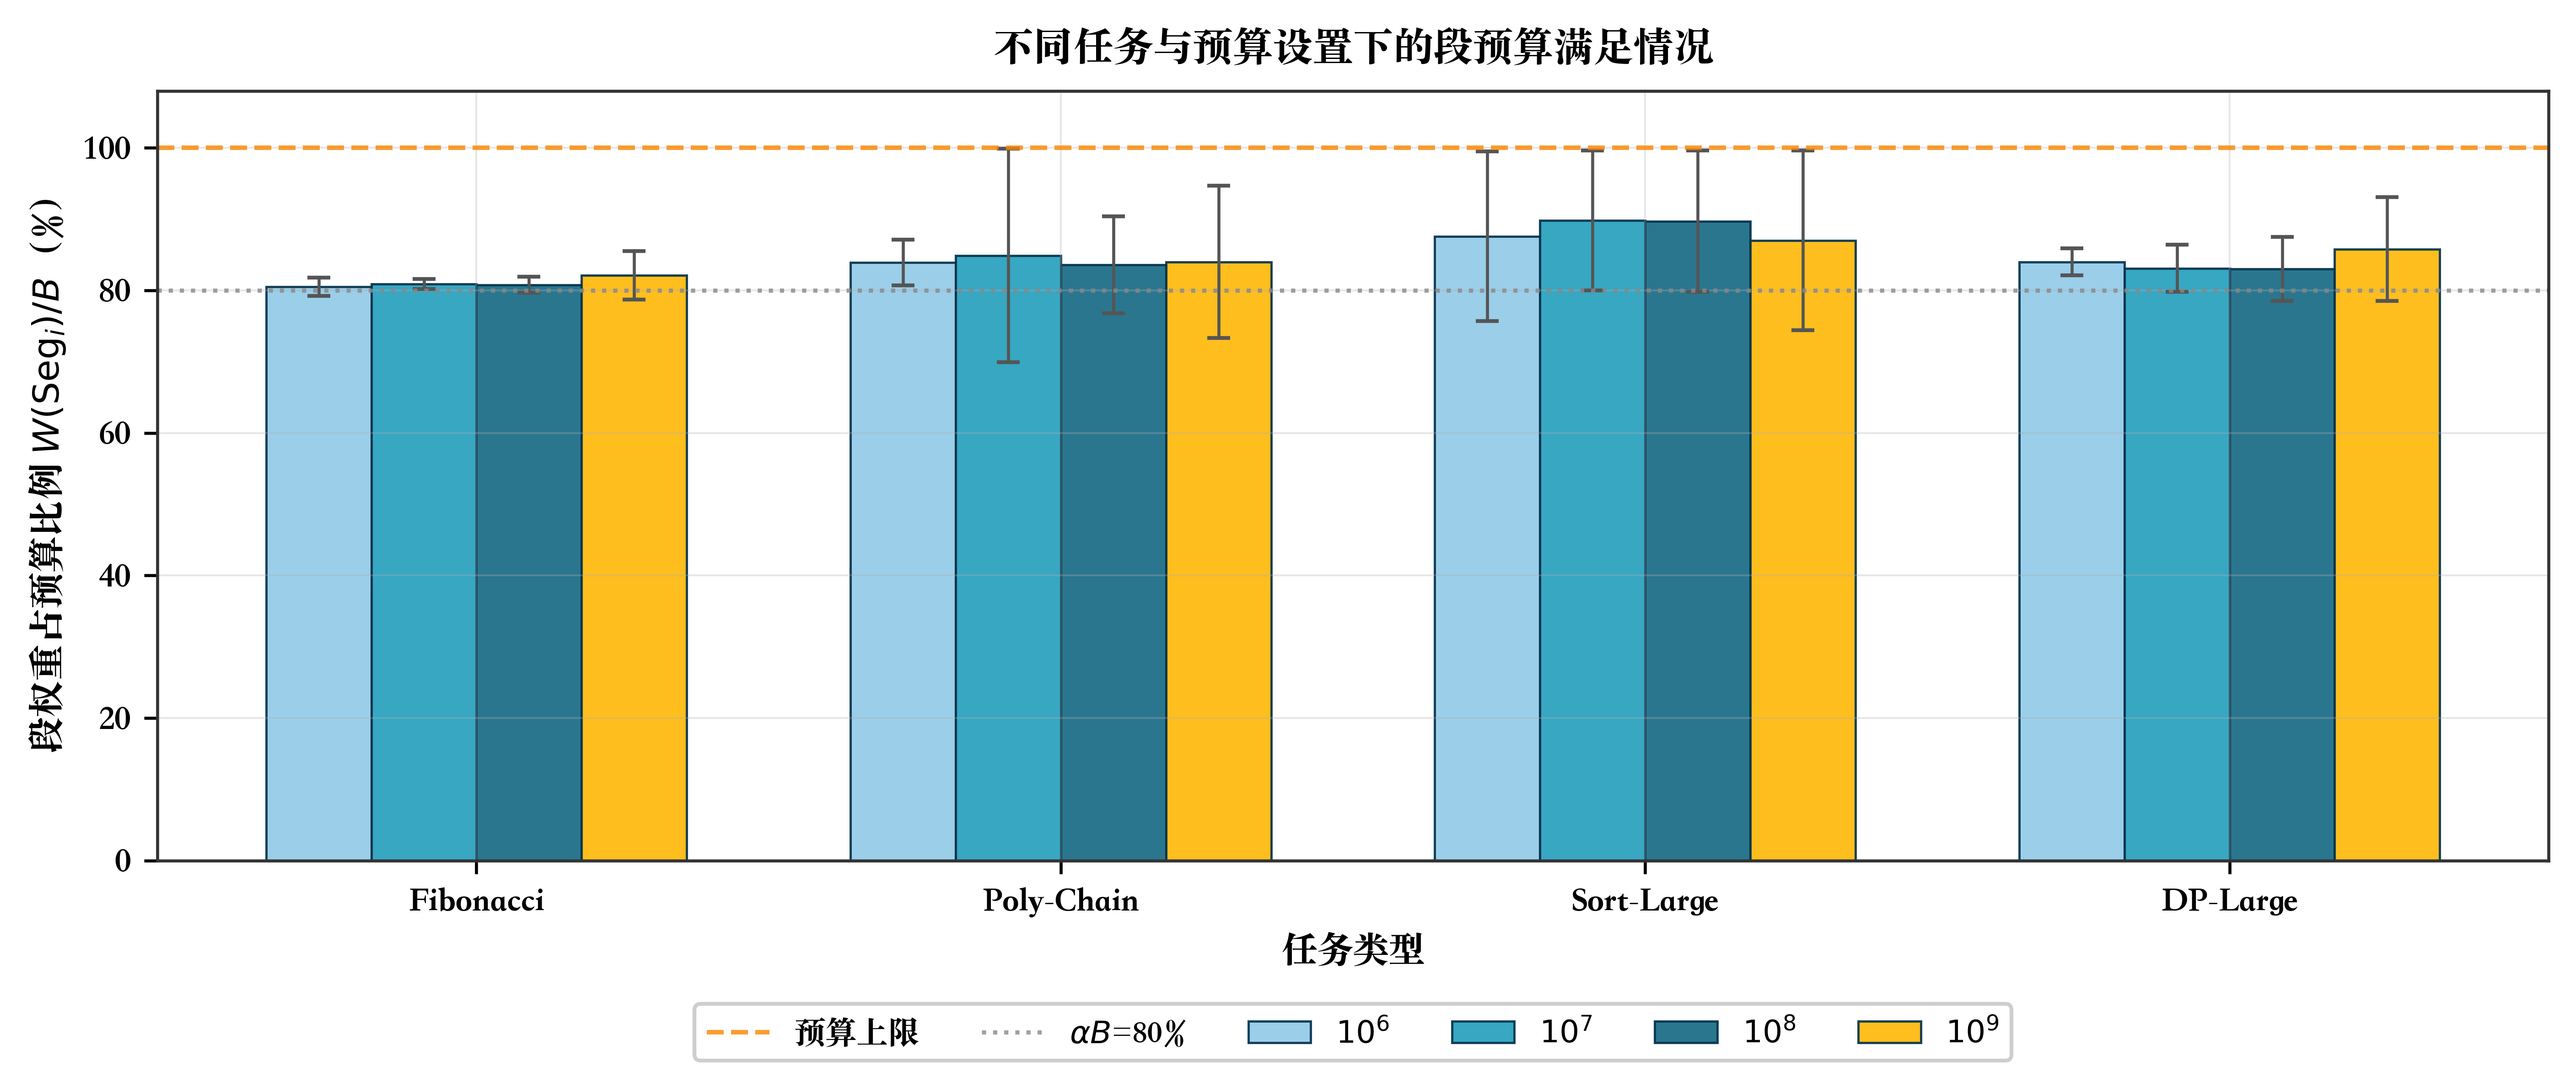
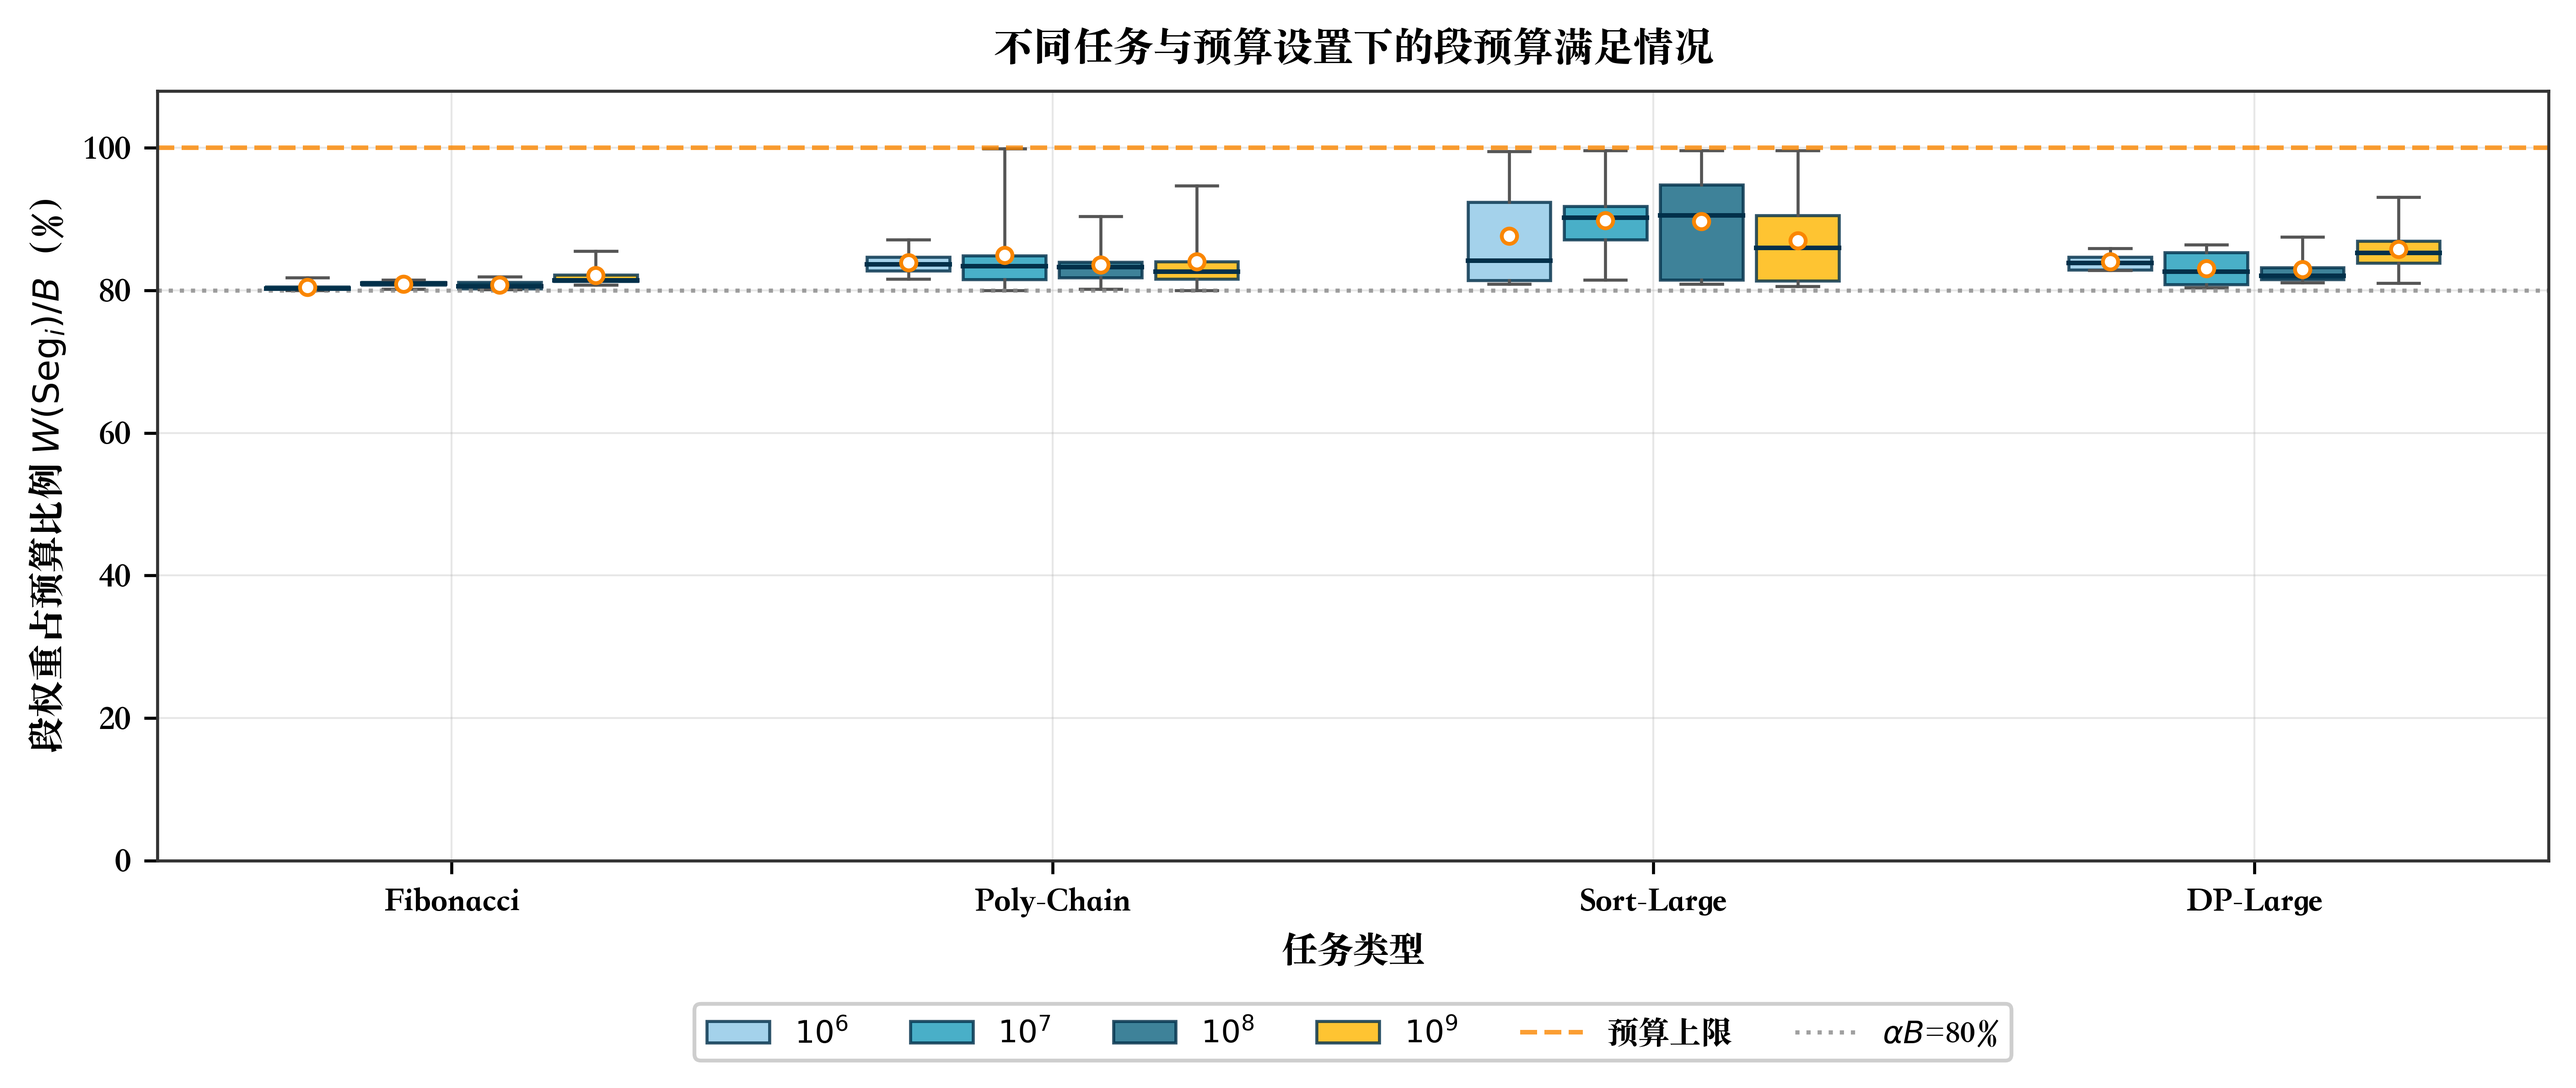
docs: add chapter3 experiment reproduction guide

diff --git a/chapter3/visualization/chapter3_all_figures.py b/chapter3/visualization/chapter3_all_figures.py
@@ -129,29 +129,30 @@ def fig_budget_compliance():
     section = DATA["budget_compliance"]
     b_values = section["b_values"]
     alpha = section["alpha"]
-    means = section["means_percent"]
-    errors = section["errors_percent"]
     x = np.arange(len(TASK_NAMES))
-    w = 0.18
+    w = 0.16
     colors = [COLORS["light_blue"], COLORS["cyan_blue"], COLORS["dark_blue"], COLORS["gold"]]
     labels = ["$10^6$", "$10^7$", "$10^8$", "$10^9$"]
 
     for idx, (_b_value, color, label) in enumerate(zip(b_values, colors, labels)):
-        values = [means[task][idx] for task in TASK_NAMES]
-        yerr = [errors[task][idx] for task in TASK_NAMES]
-        ax.bar(
-            x + (idx - 1.5) * w,
+        positions = x + (idx - 1.5) * w
+        values = [section["samples_percent"][task][f"{_b_value:.0f}"] for task in TASK_NAMES]
+        box = ax.boxplot(
             values,
-            w,
-            yerr=yerr,
-            label=label,
-            color=color,
-            alpha=0.9,
-            edgecolor=COLORS["navy"],
-            linewidth=0.6,
-            capsize=3,
-            error_kw=dict(elinewidth=0.8, ecolor="#555555"),
+            positions=positions,
+            widths=w * 0.86,
+            patch_artist=True,
+            showmeans=True,
+            manage_ticks=False,
+            whis=(0, 100),
+            boxprops=dict(facecolor=color, alpha=0.82, edgecolor=COLORS["navy"], linewidth=0.8),
+            medianprops=dict(color=COLORS["navy"], linewidth=1.2),
+            meanprops=dict(marker="o", markerfacecolor="white", markeredgecolor=COLORS["dark_orange"], markersize=4),
+            whiskerprops=dict(color="#555555", linewidth=0.8),
+            capprops=dict(color="#555555", linewidth=0.8),
+            flierprops=dict(marker=".", markerfacecolor=color, markeredgecolor=color, alpha=0.45, markersize=3),
         )
+        box["boxes"][0].set_label(label)
 
     ax.axhline(y=100, color=COLORS["dark_orange"], linestyle="--", linewidth=1.2, alpha=0.8, label="预算上限")
     ax.axhline(y=alpha * 100, color="#888888", linestyle=":", linewidth=1.1, alpha=0.8, label=f"$\\alpha B$={alpha * 100:.0f}%")
@@ -161,7 +162,9 @@ def fig_budget_compliance():
     ax.set_xlabel("任务类型", fontsize=9.5)
     ax.set_ylabel("段权重占预算比例 $W(\\mathrm{Seg}_i)/B$（%）", fontsize=9.5)
     ax.set_ylim(0, 108)
-    ax.legend(loc="lower center", bbox_to_anchor=(0.5, -0.28), ncol=6, fontsize=8.2, framealpha=0.95)
+    handles, legend_labels = ax.get_legend_handles_labels()
+    unique = dict(zip(legend_labels, handles))
+    ax.legend(unique.values(), unique.keys(), loc="lower center", bbox_to_anchor=(0.5, -0.28), ncol=6, fontsize=8.2, framealpha=0.95)
     fig.tight_layout()
     savefig(fig, "fig1_budget_compliance.png")
     print("  -> 图7/fig1_budget_compliance.png 已生成")

diff --git a/chapter3/README.md b/chapter3/README.md
@@ -1,0 +1,200 @@
+# Chapter 3 Experiment Reproduction Guide
+
+本目录对应论文第三章“基于有状态任务切片的链下计算验证”的实验与可视化。实验链路的核心约束是：论文图表使用的结构化数据必须来自 `chapter3/experiment/logs/raw_experiment_log.json`，而 raw log 由 Go 本地执行采样、Geth `evm --bench run`、Foundry Gas 测试和 paper-scale instrumentation trace 生成，不应在绘图脚本中脱离实验硬编码。
+
+## 实验内容
+
+第三章实验覆盖论文 3.5 节的三个问题：
+
+- 自适应切片机制：验证段预算不越界、切片开销小于 10%、段预算 `B` 与裁决阈值 `b` 对系统开销的影响。
+- 争议定位解决效率：比较 Arbitrum Classic、TrueBit、Cartesi Dave、Arbitrum BoLD 和 CleVer 在乐观路径与争议路径下的链上 Gas。
+- 伴随式验证时效性：比较 CleVer 与事后验证方案在错误注入后的归一化端到端时间。
+
+论文默认参数与代码一致：
+
+- 段预算 `B = 1e8 Gas`
+- 裁决阈值 `b = 1e6 Gas`
+- 密度控制参数 `alpha = 0.8`
+- 最大质押轮次 `g = 10`
+- 二次型累计质押曲线 `D(r) = d0 * r^2`，`d0 = 0.5 ETH`
+
+## 目录结构
+
+- `第三章基于有状态任务切片的链下计算验证.pdf`：第三章论文正文，实验部分为 3.5 节。
+- `experiment/README.md`：实验工程的简要说明。
+- `experiment/cmd/clever-exp/main.go`：raw log 生成入口。它执行本地任务样本、调用 Geth EVM benchmark、调用 Foundry Gas report，并生成论文尺度的 instrumentation trace。
+- `experiment/src/*.sol`：Solidity 基准任务、CleVer `VerSeg` 裁决合约和对比协议 Gas 基准。
+- `experiment/test/Benchmarks.t.sol`：Foundry Gas 测试入口。
+- `experiment/logs/raw_experiment_log.json`：实验原始日志。
+- `visualization/generate_chapter3_data.py`：从 raw log 校验并生成结构化可视化数据。
+- `visualization/chapter3_experiment_data.json`：结构化数据，绘图脚本唯一数据入口。
+- `visualization/chapter3_all_figures.py`：生成论文图 7-12。
+- `visualization/verify_paper_alignment.py`：生成论文对齐报告。
+- `visualization/paper_alignment_report.md`：图表、参数、关键结论与论文文字的对齐检查结果。
+- `visualization/正确图片输出/`：生成的 PNG 图片。
+
+## 环境依赖
+
+需要以下工具：
+
+- Go 1.21 或更高版本。
+- Foundry，包括 `forge`。
+- Geth 的 `evm` 命令。
+- Python 3.10 或兼容版本。
+- Python 包：`matplotlib`、`numpy`。
+
+检查命令：
+
+```bash
+go version
+forge --version
+evm --help
+python3 --version
+python3 -c "import matplotlib, numpy; print('python deps ok')"
+```
+
+如果网络不通，安装 Python 依赖前可按仓库说明使用代理：
+
+```bash
+export https_proxy=http://127.0.0.1:33210 http_proxy=http://127.0.0.1:33210 all_proxy=socks5://127.0.0.1:33211
+python3 -m pip install matplotlib numpy
+```
+
+在某些 macOS 沙盒环境中，Go 或 Matplotlib 默认缓存目录不可写，可改用临时目录：
+
+```bash
+export GOCACHE=/private/tmp/go-build-ch3
+export MPLCONFIGDIR=/private/tmp/mplconfig_ch3
+mkdir -p "$GOCACHE" "$MPLCONFIGDIR"
+```
+
+## 运行完整实验
+
+从仓库根目录运行：
+
+```bash
+cd chapter3/experiment
+go test ./...
+forge test --gas-report
+go run ./cmd/clever-exp --quick --out logs/raw_experiment_log.json
+
+cd ../..
+python3 chapter3/visualization/generate_chapter3_data.py
+python3 chapter3/visualization/chapter3_all_figures.py
+python3 chapter3/visualization/verify_paper_alignment.py
+```
+
+说明：
+
+- `go test ./...` 检查 Go 实验 runner 能正常编译。
+- `forge test --gas-report` 独立检查 Solidity 基准和 Gas report。
+- `go run ./cmd/clever-exp ...` 会重新生成 `raw_experiment_log.json`；该命令内部也会调用 `forge test --gas-report`，并调用 `evm --bench run` 采集 Geth EVM 样本。
+- `generate_chapter3_data.py` 从 raw log 读取并校验 `samples`、`geth_evm_samples`、`comparison_protocols` 和 `paper_evidence`，然后写出 `chapter3_experiment_data.json`。
+- `chapter3_all_figures.py` 只读取 `chapter3_experiment_data.json`，不直接从脚本中硬编码图表数据。
+- `verify_paper_alignment.py` 生成 `paper_alignment_report.md`，用于确认图 7-12 的关键结论与论文 3.5 节一致。
+
+如需运行更大的本地样本：
+
+```bash
+cd chapter3/experiment
+go run ./cmd/clever-exp --full --max-seconds 5 --out logs/raw_experiment_log.json
+```
+
+`--full` 仍会受 `--max-seconds` 限制；论文尺度的长任务通过 raw log 中的 instrumentation trace 记录和校准，避免把小时级任务强制跑完。
+
+## 只重新生成可视化
+
+如果 `experiment/logs/raw_experiment_log.json` 已经存在，只想刷新结构化数据、图片和对齐报告：
+
+```bash
+python3 chapter3/visualization/generate_chapter3_data.py
+python3 chapter3/visualization/chapter3_all_figures.py
+python3 chapter3/visualization/verify_paper_alignment.py
+```
+
+如果只改了绘图样式，并且不需要刷新 JSON：
+
+```bash
+python3 chapter3/visualization/chapter3_all_figures.py
+python3 chapter3/visualization/verify_paper_alignment.py
+```
+
+## 输出文件位置
+
+- Raw log：`chapter3/experiment/logs/raw_experiment_log.json`
+- 结构化数据：`chapter3/visualization/chapter3_experiment_data.json`
+- 论文对齐报告：`chapter3/visualization/paper_alignment_report.md`
+- 生成图片：
+  - `chapter3/visualization/正确图片输出/fig1_budget_compliance.png`
+  - `chapter3/visualization/正确图片输出/fig2_overhead.png`
+  - `chapter3/visualization/正确图片输出/fig_param_sensitivity_v2.png`
+  - `chapter3/visualization/正确图片输出/fig_gas_comparison_v2.png`
+  - `chapter3/visualization/正确图片输出/fig_staking_analysis_v2.png`
+  - `chapter3/visualization/正确图片输出/fig_timeline_v3.png`
+
+## 数据链路
+
+完整链路如下：
+
+```text
+experiment/cmd/clever-exp/main.go
+  -> experiment/logs/raw_experiment_log.json
+  -> visualization/generate_chapter3_data.py
+  -> visualization/chapter3_experiment_data.json
+  -> visualization/chapter3_all_figures.py
+  -> visualization/正确图片输出/*.png
+  -> visualization/verify_paper_alignment.py
+  -> visualization/paper_alignment_report.md
+```
+
+raw log 的主要来源：
+
+- `samples`：Go 本地确定性任务执行，记录 steps、snapshot bytes 和 SHA-256 commitment。
+- `geth_evm_samples`：`evm --bench run` 对四类代表性 EVM bytecode 的 Gas、执行时间和内存分配采样。
+- `foundry_gas_runs`：`forge test --gas-report` 解析得到的 Solidity 基准 Gas。
+- `comparison_protocols`：由 Foundry Gas 结果派生的五种协议乐观路径和争议路径 Gas。
+- `paper_evidence.instrumentation_trace`：面向论文尺度任务的 SafeCut、切片开销、参数敏感性、质押博弈和时间线 trace。该分支在 Go runner 中计算，然后进入 JSON 和绘图流程。
+
+判断数据是否脱离实验硬编码时，重点检查：
+
+```bash
+jq '.samples | length' chapter3/experiment/logs/raw_experiment_log.json
+jq '.geth_evm_samples | length' chapter3/experiment/logs/raw_experiment_log.json
+jq '.comparison_protocols | length' chapter3/experiment/logs/raw_experiment_log.json
+jq '.paper_evidence.instrumentation_trace | {mode, budget_runs:(.budget_runs|length), overhead_runs:(.overhead_runs|length), parameter_runs:(.parameter_runs|length)}' chapter3/experiment/logs/raw_experiment_log.json
+```
+
+期望分别看到 4 个本地任务样本、4 个 Geth EVM 样本、5 个协议对比项，以及 16 个 budget traces、4 个 overhead traces、8 个 parameter traces。
+
+## 论文图表对应关系
+
+| 论文图表 | 输出图片 | 数据字段 | 生成/测量代码 |
+| --- | --- | --- | --- |
+| 图 7 段权重占预算百分比 | `fig1_budget_compliance.png` | `budget_compliance.samples_percent`、`means_percent`、`errors_percent` | `runInstrumentedBudgetTrace`、`runSafeCutGasSegment`、`fig_budget_compliance` |
+| 图 8 任务切片执行开销 | `fig2_overhead.png` | `slicing_overhead` | `runInstrumentedOverheadTrace`、`summarizeOverhead`、`fig_overhead` |
+| 图 9 段预算与裁决阈值影响 | `fig_param_sensitivity_v2.png` | `parameter_sensitivity` | `deriveParameterSensitivity`、`plot_param_sensitivity` |
+| 图 10 链上开销对比 | `fig_gas_comparison_v2.png` | `gas_comparison` | `DisputeProtocolBenchmarks.sol`、`Benchmarks.t.sol`、`runFoundryGasReport`、`runComparisonProtocols`、`fig_gas_comparison` |
+| 图 11 超线性累计质押博弈 | `fig_staking_analysis_v2.png` | `staking_analysis` | `deriveStakingAnalysis`、`fig_staking_analysis` |
+| 图 12 伴随式验证时间对比 | `fig_timeline_v3.png` | `timeline` | `deriveTimeline`、`fig_timeline` |
+
+## 对齐检查要点
+
+`paper_alignment_report.md` 应至少满足：
+
+- 图 7：所有段权重均不超过 `B`，多数段集中在 `alpha B` 附近。
+- 图 8：四类任务切片开销均小于 10%。
+- 图 9：默认 `B=1e8` 时 Sort-Large 为 1300 个快照、约 61 MB；默认 `b=1e6` 时 `L=100`，`VerSeg` 约 1200 K Gas。
+- 图 10：CleVer 争议路径 Gas 相比四个对比方案平均值降低约 87%。
+- 图 11：`p >= 0.7` 且 `beta ~= 2` 时错误方在前几轮退出。
+- 图 12：CleVer 总时间为 `1.044 T_exec`。
+
+当前报告保留一个需要人工解释的 `WARN`：论文正文写“端到端验证时延降低约 52%”，而图 12 总时间数值按对比方案平均值直接计算约为 61%。报告同时列出这两个口径，避免静默掩盖论文文字与图中算术之间的差异。
+
+## 常见问题和注意事项
+
+- `go test ./...` 或 `go run` 若无法写入默认 Go cache，可设置 `GOCACHE=/private/tmp/go-build-ch3`。
+- Matplotlib 若提示默认配置目录不可写，可设置 `MPLCONFIGDIR=/private/tmp/mplconfig_ch3`。
+- `evm` 缺失会导致 raw log 中 Geth EVM 样本无法通过校验；安装 Geth 后重新运行完整实验。
+- `forge test --gas-report` 输出格式会被 `main.go` 解析，若 Foundry 版本改变导致解析不到函数名，`go run` 会因缺失 Gas 项失败。
+- `out/`、`cache/`、`node_modules/`、`__pycache__/` 等可重建产物不要提交；仓库 `.gitignore` 已忽略 Foundry build/cache 和常见缓存目录。
+- 重新生成 raw log 后，应按顺序重新生成结构化数据、图片和对齐报告。

diff --git a/chapter3/visualization/paper_alignment_report.md b/chapter3/visualization/paper_alignment_report.md
@@ -2,8 +2,8 @@
 
 ## Evidence Chain
 
-- Raw local execution log: `/Users/gqy/Desktop/data/DR/毕业/毕业答辩/实验室验收材料/第三章/chapter3/experiment/logs/raw_experiment_log.json`
-- Visualization data: `/Users/gqy/Desktop/data/DR/毕业/毕业答辩/实验室验收材料/第三章/chapter3/visualization/chapter3_experiment_data.json`
+- Raw local execution log: `/Users/gqy/Desktop/data/DR/毕业/毕业答辩/实验室验收材料/paper-exp/chapter3/experiment/logs/raw_experiment_log.json`
+- Visualization data: `/Users/gqy/Desktop/data/DR/毕业/毕业答辩/实验室验收材料/paper-exp/chapter3/visualization/chapter3_experiment_data.json`
 - Paper-scale target: Section 3.5 and Figures 7-12 of Chapter 3
 - Rule: generated figure data must match the thesis text targets before visualization
 
